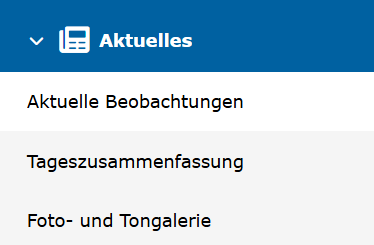
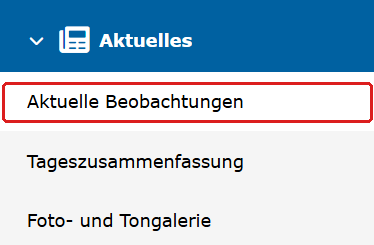
Docs: Frame what to click in red on every HOWTO screenshot

Changed region(s): [[0.0, 0.3143, 1.0, 0.5143]]

diff --git a/HOWTO.md b/HOWTO.md
@@ -1,6 +1,6 @@
 # Datenexport von ornitho.de
 
-Kurzanleitung, wie du deinen Beobachtungsexport für [`lifelist.py`](lifelist.py) von [ornitho.de](https://www.ornitho.de/) herunterlädst. Die Bilder zeigen jeweils den Ausschnitt der Seite, um den es im Schritt geht.
+Kurzanleitung, wie du deinen Beobachtungsexport für [`lifelist.py`](lifelist.py) von [ornitho.de](https://www.ornitho.de/) herunterlädst. Rot umrahmt ist in jedem Bild, worauf du im jeweiligen Schritt klickst.
 
 1. Im Menü unter **Aktuelles** auf **Aktuelle Beobachtungen** klicken.
 
